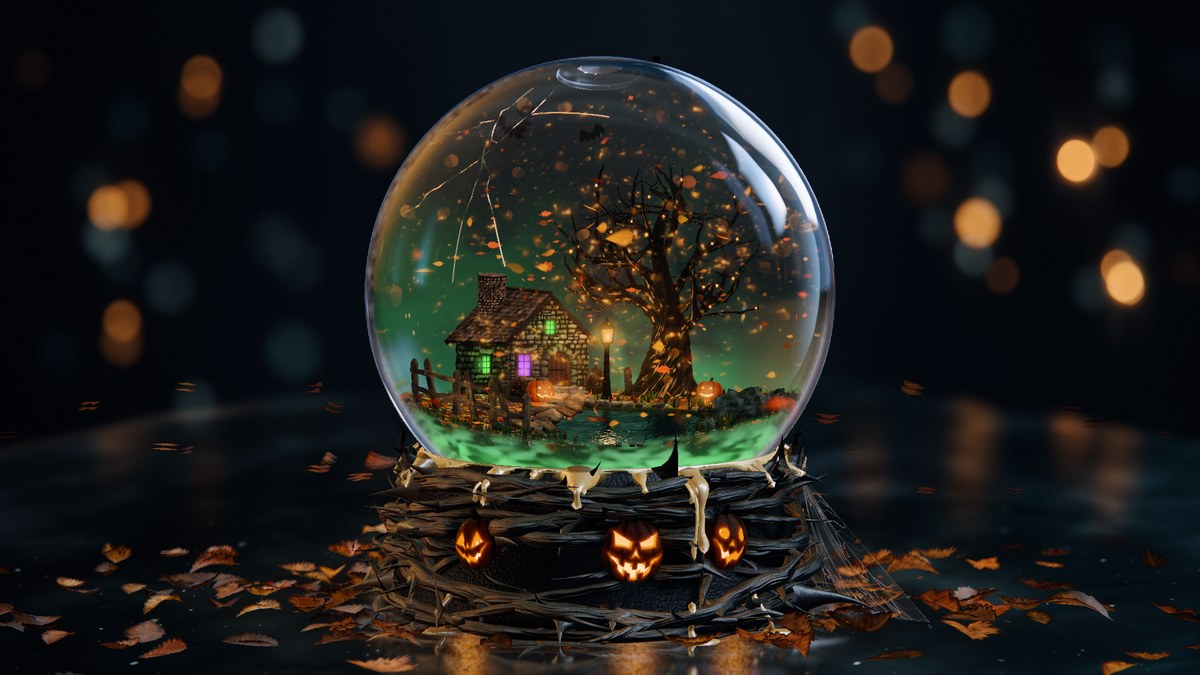
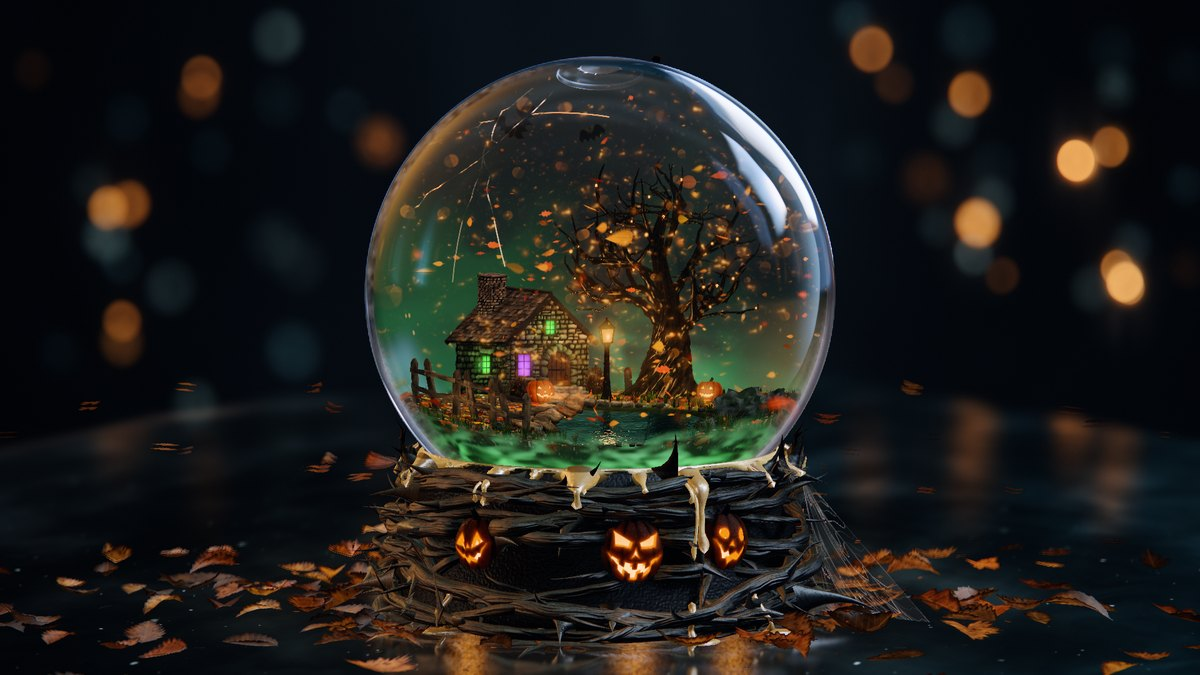
looks 7: wet waterline, contact shade, REPORT and HANDOVER

Changed region(s): [[0.3392, 0.5911, 0.6475, 0.7156]]

diff --git a/HANDOVER.md b/HANDOVER.md
@@ -1,0 +1,86 @@
+# Handover: fall miniature (`miniature-fall`), its small lights and its distance field
+
+Written by `fall_mini3` (third set, took over from `fall_mini2` at 05:38 UTC, 25 Nov 2026). Times are UTC.
+
+## Where it stands
+
+- Branch `agent/p4-fall_mini3`, tip `946f650` (merge of `origin/main` `de1c404`; my last change is `6ac1efd`). Looks branch `agent/p4-fall_mini3-looks`, tip is the commit that holds this file.
+- No stand-in and no fallback anywhere in the part. `standIns` is empty. No generated picture and no photograph was used; every map and mesh is made by the two build scripts. No pixel of an approved image is in the app.
+- Looks used: 39 of 40.
+
+## Files (all mine, nothing else touched)
+
+- `assets-src/village-fall/build.mjs`: island ground, pond water, 230 litter leaves, 360 grass tufts (now weighted to the front rim and taller there), 260 pebbles, two pumpkins, two gravestones, attic pane, leaning rail fence, four mossy rocks, three door steps, flagstone path (flat warm slabs), pond rim stones, the two maps (`village-earth`, `village-litter`). Writes `assets-full/fall/village-fall.glb` (own lighter index lists for medium and low) and the two PNGs.
+- `assets-src/tree-fall/build.mjs`: ridged trunk sleeve, limb sleeves, boughs, twigs, 26 ember bulbs; `CEIL` keeps the crown inside the interior frame. Writes `assets-full/fall/tree-fall.glb` (own lighter lists).
+- `assets-src/village-fall/RECIPE.md`, `assets-src/tree-fall/RECIPE.md`: how each asset is made (unchanged by me; the tree recipe still names spikes, which the build now grows none of).
+- `src/seasons/fall/miniature.ts`: the part's entry (unchanged by me).
+- `src/seasons/fall/mini/palette.ts`: every light and surface tone.
+- `src/seasons/fall/mini/props.ts`: pumpkins, gravestones, attic window, fence boards, rocks, path line.
+- `src/seasons/fall/mini/village.ts`: the season's look of the shared village (wall, roof, door, timber tints, tall lantern, chimney), ground and water materials, panes, lamp, pumpkin lights, halos, baked bounce sources, `innerLights`, the distance field.
+- `src/seasons/fall/mini/tree.ts`: bark and twig materials (`barkHook`: baked glow plus thin Blinn glints on the bark ridges), embers, halos and pools, the tree's `innerLights`, the boughs' distance field.
+
+## Make targets, in order
+
+1. `npm run make -- village` and `npm run make -- trunk` (shared, read only for this part; only after a merge that changed them).
+2. `npm run make -- village-fall` (about 12 s)
+3. `npm run make -- tree-fall` (about 5 s)
+4. `npm run texpack`, then `npm run build`.
+
+Before merging `main`: `git checkout -- assets-full public/assets`, merge, then steps 2 to 4 again. Never commit anything under `assets-full/` or `public/assets/`.
+
+## Triangles (G15)
+
+- Start of my set (5463ca3's parent, mini2's tip): my files 251,880 / 69,093 / 48,194.
+- Now: village-fall 214,584 / 42,623 / 32,999; tree-fall 33,026 / 21,713 / 12,211. Sum 247,610 / 64,336 / 45,210. Never above the start at any level.
+- Season drawn (`node out/work/bin/tris.mjs fall`): 1,599,251 / 928,916 / 412,980 against 1,800,000 / 1,100,000 / 600,000 (on 6ac1efd, main's air and base).
+
+## What is still wrong, worst first, as a viewer of the hero would rank it
+
+1. M3 `fall-rest` fails. The miniature reads 0.572 at FINAL tier on main c3aab2a + fall_air3 2dd31bf + my 323cfce (base 0.407), and 0.453 at draft on my tip with main's own, heavier fog (base 0.665). Threshold 0.75. Weakest zones against the approved (my replica, approved / ours, times 1e6, with fall_air3's fog): fence, path and pond edge 8344 / 1999; front wall 6091 / 3145; side wall 3930 / 2002; ground left of the path 5386 / 2648; crown 3600 / 2202.
+2. The trunk below the fork is about twice the approved's width at the hero and its silhouette is a cone, not the approved's heavy twist. It is the shared trunk (`src/miniature/trunk.ts`, `assets-src/trunk`), read only; my sleeve only adds ridges and a root flare.
+3. The cottage is smaller, more frontal and further left than the approved's; slates and wall stones are larger and paler at the gable. Shared layout and mesh.
+4. The ground at the front rim still reads as a lit green band in the hero: the band is fall_air3's low fog; my half (tall grass through it, dark soil, contact shade) is in. No stones break the front slope, and the fog hides the litter there.
+5. Panes are more even than the approved's (which show a bright core, dark corners and a glow on sill and wall). I dimmed the room, kept a hot centre and put grime in the frost slot; a true gradient needs the shared pane shader.
+6. The pond's far shore is a regular row of rim stones; the approved's is a soft grass bank with few stones. The wet line (6ac1efd) is subtle at hero size.
+7. Limbs are straighter and the crown rounder than the approved's clawed, twisted boughs. `CEIL 24.5` flattens the top a little (needed for M1).
+8. The path is shorter and its flags larger than the approved's.
+9. `assets-src/tree-fall/RECIPE.md` still speaks of spikes; the build grows none.
+
+## Measures
+
+Last full run on my tip 6ac1efd (before the merge of main de1c404, which changed no source), `npm run measure -- --unit fall --only M1,M2,M3,M6 --tier draft`, 482 s, 19 lines, 1 red:
+
+- M1 passes on all six views; `fall-interior`: "the miniature, 410661 pixels in the ids view, stays clear of the edge of the frame" (it touched at Round 13).
+- M2 passes on all six views (0 soft pixels).
+- M6 passes on all six views (`fall-shake` 6 of 102,000 particles inside a solid, 0.000059 against 0.002).
+- M3 `fall-rest` FAILS: 0.4532 against 0.75; base 0.665 over 172,715 px, miniature 0.453 over 99,020 px. This is with main's own fog. Draft readings run above final ones on the base and the fog decides much of the miniature's.
+- M3 at FINAL tier on main c3aab2a + fall_air3 2dd31bf + my 323cfce (local merge, 500 s): 0.407; base 0.407 over 172,715 px, miniature 0.572 over 103,397 px.
+- `npm run determinism` on 6ac1efd: `determinism: pass · 3 pictures, 4 page loads, preview, draft, 344 s`.
+- `npx tsc --noEmit` clean; `npx vitest run` 432 passed, 4 skipped (on 946f650).
+
+## What did not work (do not repeat)
+
+- Everything in `fall_mini2`'s list still holds: bark tint for relief; pale gravestones (keep `#3e403a`); high contrast pond patches; `MOSS.biteTop 2`; stone tones times 1.3 with `WALL_FILL 2.8`; stronger baked light on the wood (brown tree); `soilMm 0.4`.
+- Glints on bark at full lamp power (first tries: `GLINT_LAMP.power 6`): white streaks over the whole trunk. Thin glints need the ridge mask and powers near 1.
+- Wall stone top at 0.16: closest to the approved olive by eye, but cost 0.02 of M3 against 0.18; 0.18 is in.
+- Bending the tone of the stone vertices above the eaves (the `kind === 0` roof branch) lights the chimney and the gable's stone tops white. Only the slates (`kind === 1`) are bent.
+- Dropping the shared trunk to draw a slimmer one: not done and not to be done, the trunk is the one geometry all four seasons share.
+- A GLSL error breaks a shader silently; stills refuse a stale `dist` (texpack and build first). The still tool reuses a cached simulation (`simulation 0.3 s`) until a solid changes.
+
+## Constants a successor should know
+
+- `village.ts`: `STONE { top 0.18, knee 0.12, power 2.2 }` (tone curve of the wall stones, joints stay black), `MOSS { low [0.68, 0.88, 0.5], high [0.9, 1.06, 0.68], soot 0.8 }`, `ROOF { tone [1.65, 1.22, 0.95], grey 0.55, mid 0.045, bend 1.6, patch [0.6, 1.7] }`, `DOOR [0.24, 0.19, 0.13]`, `TIMBER [0.4, 0.42, 0.34]`, `PATH.tone [0.96, 0.76, 0.58]`, `NEAR_WALL.lamp.power 3.4`, `BOUNCE` (two baked sources: fence front `[1, 0.76, 0.52]` power 1.5 reach 9; side wall `[0.86, 0.9, 0.66]` power 1.7 reach 11), `WATER.fog 0.3`, `PANE { room 0.45, drape 0.3, hot 1.0, grime [0.014, 0.013, 0.009], grimeAmount 0.7 }` (the shared pane's frost slot carries the grime).
+- `palette.ts`: `water [0.014, 0.03, 0.027]`, `fogGlint [0.2, 0.46, 0.34]`.
+- `props.ts`: fence posts and rails `wide` times 0.78.
+- `tree.ts`: `GLINT { shine 80, ridge [0.3, 0.8], rough 0.86 }`, `GLINT_LAMP { lift 3.6, power 1.3, reachMm 11 }`, `GLINT_TONE [1, 0.46, 0.14]`, `GLINT_PUMPKIN { power 0.9, reachMm 8 }`, `GLINT_POND { power 0.05, reachMm 24 }`, `EMBER_ON_WOOD.power 14`, `LAMP_ON_WOOD.power 5.5`, `FILL_ON_WOOD.power 2.2`, `POOL { radiusMm 1.0, strength 0.04 }`.
+- `tree-fall/build.mjs`: `CEIL 24.5` (world mm above the sphere's centre; the interior frame's top edge is near 27.9), `BOUGH { rise 0.22, tipLift 0.45 }`, `TWIG.each [0.3, 0.7]`, `SPIKE.each [0.05, 0.4]` (grows none), `THICK { limb 1.3, twig 1.2, bough 0.9, tip 0.9 }`, `SLEEVE.stem 0.12`, `EMBER { count 26, apart 4.4 }`.
+- `village-fall/build.mjs`: `LITTER { base 0.1, patch 0.3, tree 0.14 }`, `STONE_TONES` times `[1.2, 1.04, 0.86]`, `FLAG_TONE [1.3, 0.92, 0.66]`, path flags 1.3 mm thick with round 0.16 and sides at 0.1, `GRASS_TONES ['#4f6a26', '#62782e', '#8f7a34', '#3f5620', '#86572a']`, pumpkin tone `#cf5a12` with deep `#4a1604`, tuft chance `0.75 * front` and height `+ 1.1 * front` on the rim toward the camera.
+
+## Tools I used (not in the repo)
+
+- `/tmp/lk/zm.py`: replica of M3 by zone (`fall_mini2`'s, same recipe). It reads the mask from the last measure's ids view, so it is stale after a tree change until the measure runs again.
+- A local scratch branch that merges `origin/agent/p4-fall_air3` into mine to measure the merged build; deleted after each use, never pushed.
+
+## ASSETS.md rows
+
+No new asset file. The four files (`assets-full/fall/village-fall.glb`, `village-earth.srgb.tile.w1024.png`, `village-litter.srgb.tile.w1024.png`, `tree-fall.glb`) are described in the two `RECIPE.md` files; no generated or fetched picture, no `gen/` folder.

diff --git a/REPORT.md b/REPORT.md
@@ -1,0 +1,63 @@
+# Report: fall miniature, third set (`fall_mini3`)
+
+Times are UTC, 25 Nov 2026. Branch `agent/p4-fall_mini3`, tip `946f650` (merge of `origin/main` `de1c404`; last change of mine `6ac1efd`). Looks branch `agent/p4-fall_mini3-looks`.
+
+## What I was asked and what I did
+
+Took over at 05:38 from `fall_mini2` (merged at once). My files only: `assets-src/village-fall/**`, `assets-src/tree-fall/**`, `src/seasons/fall/miniature.ts`, `src/seasons/fall/mini/**`.
+
+Commits of mine (merges left out), oldest first:
+
+- fc1668e, 52dfa56, be9959c, c6d23ac: thin lit glints on the bark ridges (`barkHook`), wall stone tone curve, door, timber and roof tones, lamp on the near wall.
+- 60b96c9: pond takes the teal of the lit fog.
+- af36b77: lighter flagstone tops over dark sides, deeper pumpkin grooves.
+- b947ba1: an open crown, fewer terminal twigs and no spikes.
+- 269430d: weathered slates with lit lower edges, flat warm flagstones, lighter side wall (two baked bounce sources).
+- c6f3593: slimmer limb sleeves and upper stem.
+- daeeed5: pond less saturated (the approved grey-teal), roof tone nearer the approved slate.
+- 2945de7: crown inside the interior frame (M1), thinner crown with 26 lights instead of 36, tall grass on the island's front rim through the fog, panes with a dim room, a hot centre and grime.
+- 6ac1efd: wet dark stone along the pond's waterline, contact shade under the pumpkins and along the fence.
+
+## Round 13 issues in my files
+
+- M1 `fall-interior`, miniature touches the frame edge: fixed in 2945de7 (`CEIL` in `tree-fall/build.mjs`). The draft measure on 6ac1efd prints "pass M1 fall-interior ... the miniature, 410661 pixels in the ids view, stays clear of the edge of the frame".
+- M3 `fall-rest`, miniature 0.279 at final on e39ec6c: at FINAL tier on main c3aab2a + fall_air3 2dd31bf + my 323cfce the line printed base 0.407 over 172,715 px, miniature 0.572 over 103,397 px. Still short of 0.75. fall_air3 measured its fog's share at 0.041 (review tier); the rest of the gain is my surfaces.
+- R1 #3 (crown): thinner (end twigs 0.3 to 0.7 a joint, sleeves thinner), 26 lights, crown no longer reaches the top of the interior frame. Not done: "restore the heavy twisted trunk silhouette" beyond what the ridged sleeve gives; the trunk below the fork is the shared trunk (read only) and is about twice the approved's width at the hero.
+- R1 #4 and R3-2 #1 (green slab): split agreed with fall_air3 at 07:43. Mine: tall grass on the front rim standing through the fog, dark soil and contact shade under pumpkins and fence, wet stones. The lit band itself is fall_air3's low fog (thinned and darkened in its 2dd31bf). Not done by me: stones on the front slope, fallen leaves on the fog-covered rim beyond the 230 litter leaves already there.
+- R3-2 #10 (no visible pond): the pond is grey-teal with the lamp's sheen and reads at the hero once the fog over it is thinned; its outline is shared and unchanged.
+- R3-1 minor (waterline): rim stones are dark and smooth from the waterline up 0.85 mm on the water's side (6ac1efd). Seen at hero rest draft hd: a dark foot under the far shore's stones; subtle at this size.
+- Jury, windows: `PANE { room 0.45, drape 0.3, hot 1.0 }` plus dark grime in the shared pane's frost slot. Seen: bars read, centre hotter than corners. Still more even than the approved's panes; the pane shader (`src/miniature/glow.ts`) is shared.
+
+## Seen with my own eyes, and not seen
+
+Seen, all at `--tier draft --format hd`: hero rest (many times, the last on 6ac1efd with fall_air3's `glass.ts` laid over as a diagnostic and once with main's own glass); interior rest (on 2945de7); macro rest (on daeeed5); landed hero and settled hero (on 507e651).
+
+Not seen: base, surface and low cameras after 05:38; medium and low tiers; anything at review or final tier as a picture (only the M3 number at final); interior, macro, landed and settled after 6ac1efd (the change is to rim stones and soil colour only).
+
+## Measures and tests
+
+Last full run on my tip 6ac1efd (before the merge of main de1c404, which changed no source), `npm run measure -- --unit fall --only M1,M2,M3,M6 --tier draft`, 482 s, 19 lines, 1 red:
+
+- M1 passes on all six views; `fall-interior`: "the miniature, 410661 pixels in the ids view, stays clear of the edge of the frame" (it touched at Round 13).
+- M2 passes on all six views (0 soft pixels).
+- M6 passes on all six views (`fall-shake` 6 of 102,000 particles inside a solid, 0.000059 against 0.002).
+- M3 `fall-rest` FAILS: 0.4532 against 0.75; base 0.665 over 172,715 px, miniature 0.453 over 99,020 px. This is with main's own fog. Draft readings run above final ones on the base and the fog decides much of the miniature's.
+- M3 at FINAL tier on main c3aab2a + fall_air3 2dd31bf + my 323cfce (local merge, 500 s): 0.407; base 0.407 over 172,715 px, miniature 0.572 over 103,397 px.
+- `npm run determinism` on 6ac1efd: `determinism: pass · 3 pictures, 4 page loads, preview, draft, 344 s`.
+- `npx tsc --noEmit` clean; `npx vitest run` 432 passed, 4 skipped (on 946f650).
+
+## Triangles
+
+- My files at the start 251,880 / 69,093 / 48,194; now 247,610 / 64,336 / 45,210 (village-fall 214,584 / 42,623 / 32,999; tree-fall 33,026 / 21,713 / 12,211).
+- Season: 1,599,251 / 928,916 / 412,980 against 1,800,000 / 1,100,000 / 600,000 (on 6ac1efd, main's air and base).
+
+## Looks
+
+39 of 40 used. Every look at draft hd with the approved crop beside it.
+
+## Not fixable in my files (owners)
+
+- Trunk width below the fork, cottage size, yaw and place, slate and wall stone size, pond outline: shared geometry (`src/miniature/**`, `assets-src/village`, `assets-src/trunk`), read only.
+- Pane recess and pane shader: shared `src/miniature/glow.ts`.
+- The low fog band, the fog over the cottage and tree, the key light: `fall_air3`. Leaves, embers and bats in front of the miniature: `kinds3` and `fall_air3`.
+- Main's own fog (c3aab2a) is much heavier over the miniature than fall_air3's branch: my replica of M3 at draft reads 0.475 with main's glass and 0.625 with fall_air3's 2dd31bf glass over the same build.
